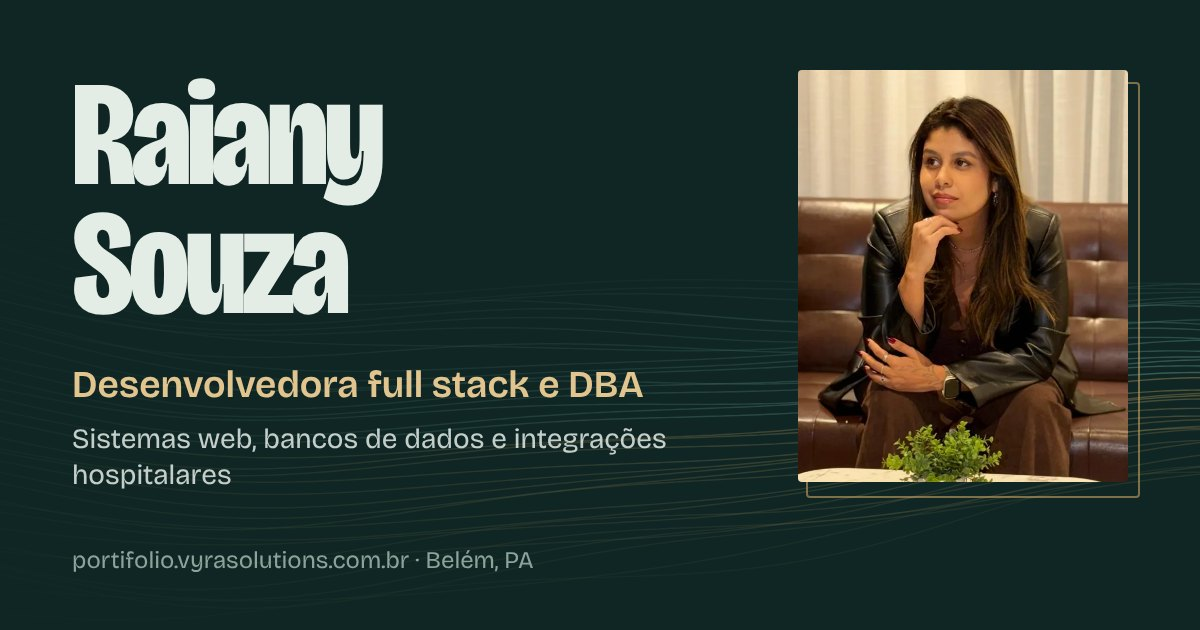
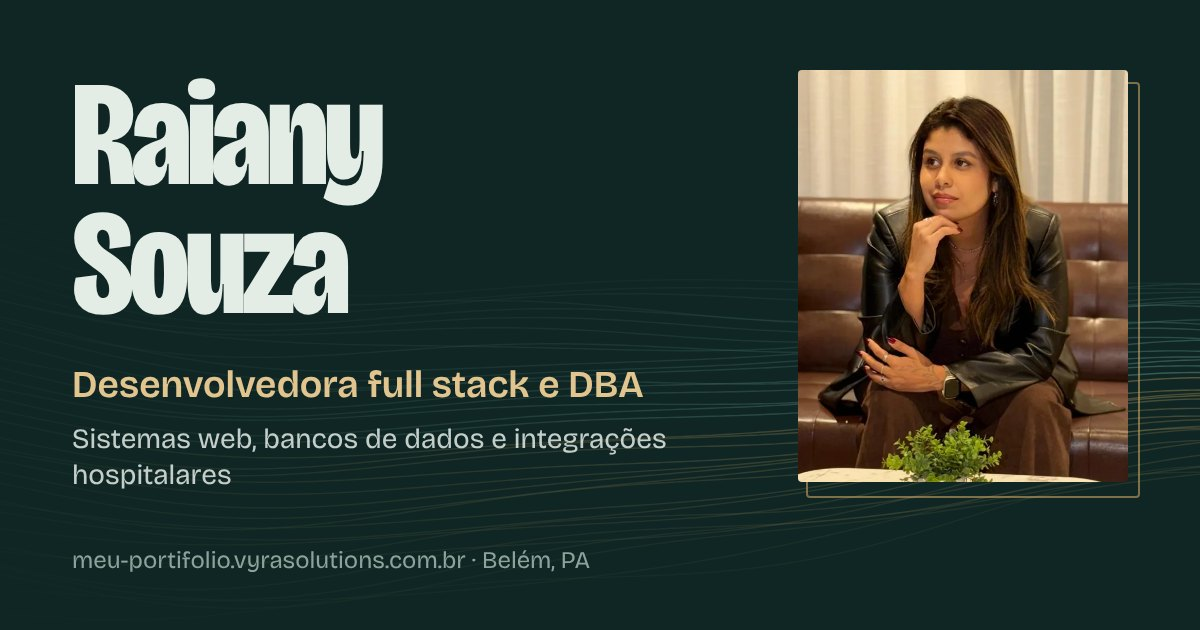
Novo endereço: meu-portifolio.vyrasolutions.com.br
URL canônica, sitemap, dados estruturados, imagem de compartilhamento e DEPLOY.md
(com redirecionamento do endereço antigo no Caddy).

Claude-Session: https://claude.ai/code/session_01P8v9Zo9pDNRNsn4kqgmioJ

Changed region(s): [[0.0617, 0.8746, 0.4933, 0.9048]]

diff --git a/src/content/perfil.ts b/src/content/perfil.ts
@@ -60,7 +60,7 @@ export const perfil = {
 
 // SEO: como o site aparece no Google e quando o link é compartilhado
 export const seo = {
-  url: "https://portifolio.vyrasolutions.com.br",
+  url: "https://meu-portifolio.vyrasolutions.com.br",
   titulo: "Raiany Souza | Desenvolvedora Full Stack e DBA em Belém, PA",
   descricao:
     "Raiany Souza é desenvolvedora full stack e DBA em Belém do Pará. Cria sistemas web com React, Laravel e FastAPI, administra Oracle, PostgreSQL e MongoDB e integra sistemas hospitalares.",

diff --git a/DEPLOY.md b/DEPLOY.md
@@ -3,11 +3,11 @@
 Mesmo esquema do glam-financas-mais. O site roda num contêiner que escuta só em `127.0.0.1:3010`, e o Caddy do servidor cuida do domínio e do HTTPS.
 
 - Pasta no servidor: `/var/www/html/portifolio`
-- Endereço: `https://portifolio.vyrasolutions.com.br`
+- Endereço: `https://meu-portifolio.vyrasolutions.com.br`
 
 ## Primeira publicação
 
-1. **DNS:** registro A `portifolio` apontando para o IP do servidor (igual ao `glamfinancasmais`).
+1. **DNS:** registro A `meu-portifolio` apontando para o IP do servidor, como DNS only (igual ao `glamfinancasmais`).
 2. **Código e contêiner:**
    ```bash
    git clone https://github.com/raysouzaa/portifolio.git /var/www/html/portifolio
@@ -17,9 +17,14 @@ Mesmo esquema do glam-financas-mais. O site roda num contêiner que escuta só e
    ```
 3. **Caddy:** acrescente ao `/etc/caddy/Caddyfile`
    ```
-   portifolio.vyrasolutions.com.br {
+   meu-portifolio.vyrasolutions.com.br {
        encode gzip zstd
        reverse_proxy 127.0.0.1:3010
+   }
+
+   # endereço antigo: redireciona para o novo sem perder links
+   portifolio.vyrasolutions.com.br {
+       redir https://meu-portifolio.vyrasolutions.com.br{uri} permanent
    }
    ```
    ```bash
